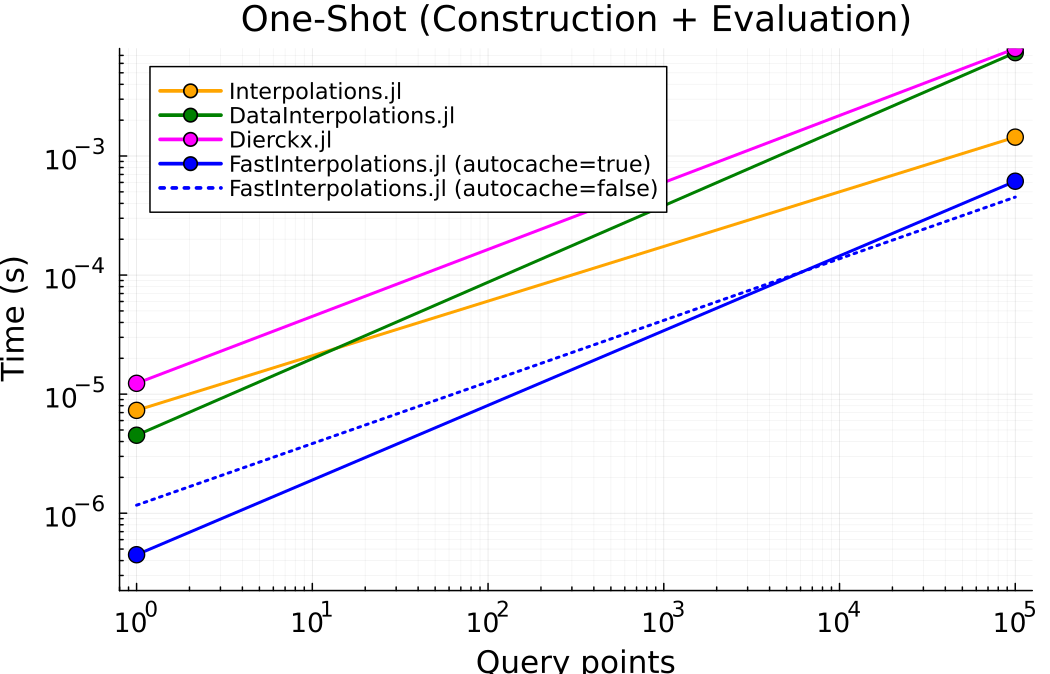
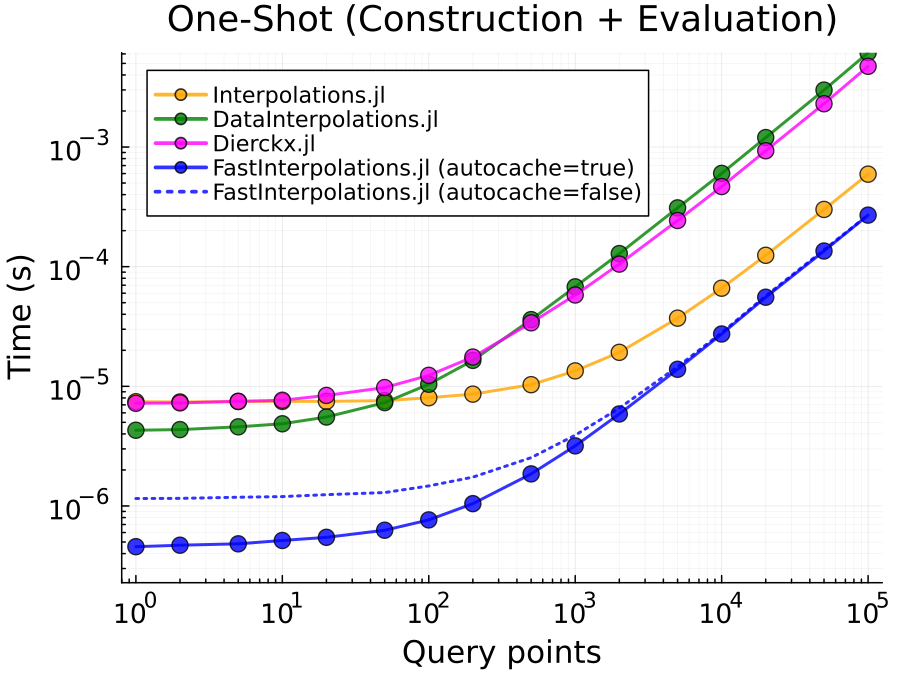
benchmark: update environment details and speedup metrics for improved clarity

diff --git a/README.md b/README.md
@@ -81,14 +81,14 @@ For detailed usage and performance trade-offs, see the [API Selection Guide](htt
 
 Benchmark comparison against [Interpolations.jl](https://github.com/JuliaMath/Interpolations.jl) and [DataInterpolations.jl](https://github.com/SciML/DataInterpolations.jl) for **cubic spline interpolation**.
 <!-- BENCHMARK_VERSIONS_START -->
-> **Env:** GitHub Actions · `ubuntu-latest` · Julia 1.12.4<br>
+> **Env:** Local · macOS 15.7.3 · Apple M1 Pro · Julia 1.12.4<br>
 > **Pkg:** FastInterpolations (v0.2.6) · Interpolations (v0.16.2) · DataInterpolations (v8.9.0) · Dierckx (v0.5.4)
 <!-- BENCHMARK_VERSIONS_END -->
 
 ![One-Shot](docs/images/benchmark_oneshot_detail.png)
 
 <!-- BENCHMARK_SPEEDUP_START -->
-**Speedup:** (2.3 ~ 16.3)× vs `Interpolations.jl` · (10.1 ~ 12.0)× vs `DataInterpolations.jl` · (13.0 ~ 27.5)× vs `Dierckx.jl`
+**Speedup:** (2.2 ~ 16.3)× vs `Interpolations.jl` · (9.3 ~ 22.8)× vs `DataInterpolations.jl` · (14.9 ~ 18.3)× vs `Dierckx.jl`
 <!-- BENCHMARK_SPEEDUP_END -->
 
 One-shot (construction + evaluation) time per call with fixed grid size $n=100$. `FastInterpolations.jl` is significantly faster even on the first call (cache-miss), and becomes even faster on subsequent calls (cache-hit).
